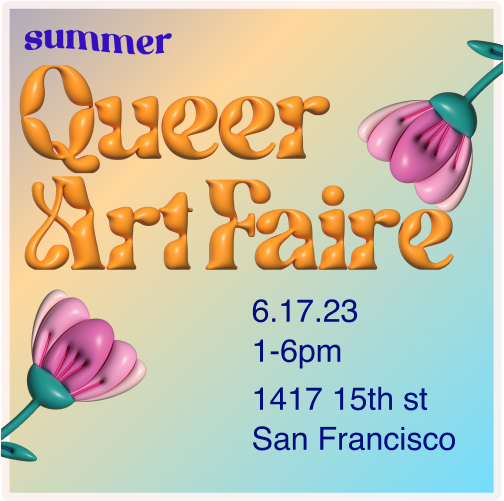
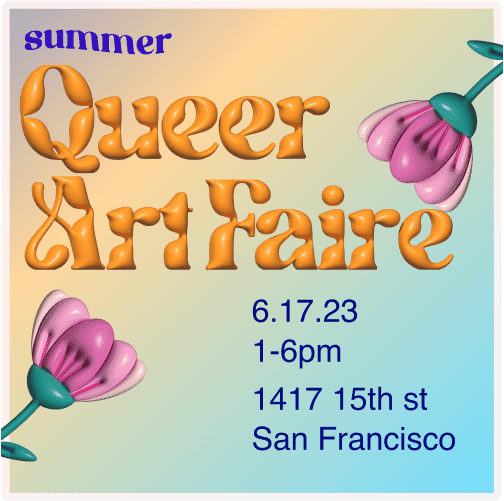
made changes to increase performance score

diff --git a/app/page.js b/app/page.js
@@ -19,37 +19,14 @@ export default function HomePage() {
       <Subheader />
       <Navigation />
       <div className={HomeStyles.content}>
-        <div className = {HomeStyles.nextContainer}>
-          <Strawberry heading='NEXT' showMediumStrawberry = {'none'}/>
-          <img className = {HomeStyles.nextPoster} src='./QAF Poster July 8.png'></img>
-
-          <div className = {HomeStyles.nextButtonContainer}>
-            <Button className = {HomeStyles.nextButton} 
-            text="Get your tickets!"
-            url="https://www.eventbrite.com/e/queer-art-faire-at-lakeside-landing-tickets-634996761407?aff=oddtdtcreator"
-            />
-            <div className = {HomeStyles.nextHeartContainer} >
-              <img className = {HomeStyles.nextHeart} src='./heart.svg'></img>
-            </div>
-            <Button className = {HomeStyles.nextButton} 
-            text="General Vendor Application" 
-            backgroundColor="white" 
-            textColor="#002809" 
-            borderColor="#489056"
-            hoverBackgroundColor="#489056"
-            hoverTextColor="white"
-            url="https://docs.google.com/forms/d/e/1FAIpQLSePS8SsNjo6JF0JvOVwPIYPIv-cc8VCp2ZLEC2u5cIkPKNodA/viewform"
-            />
-          </div>
-        </div>
         
         <div className = {HomeStyles.upcomingContainer}>
           <Strawberry heading='UPCOMING' showLargeStrawberry='none'/>
           <div className = {HomeStyles.smallEventsContainer}>
             <Event className = {HomeStyles.centerFlexChild} name="Lakeside Landing" info="July 8, 2023"/>
-            <img className = {HomeStyles.upcomingOrange} src='./puffyOrange.svg'></img>
+            <img className = {HomeStyles.upcomingOrange} src='./puffyOrange.svg' loading = "lazy"></img>
             <Event className = {HomeStyles.centerFlexChild} name="Fall Faire" info={'Sept 16, 2023'}/>
-            <img className = {HomeStyles.upcomingOrange} src='./puffyOrange.svg'></img>
+            <img className = {HomeStyles.upcomingOrange} src='./puffyOrange.svg' loading = "lazy"></img>
             <Event className = {HomeStyles.centerFlexChild} name="Winter Faire" info={'Dec 2, 2023'}/>
           </div>
         </div>
@@ -72,7 +49,9 @@ export default function HomePage() {
         <div className = {HomeStyles.aboutContainer}>
           <Strawberry heading='ABOUT' showMediumStrawberry = {"none"}/>
           <div className = {HomeStyles.aboutSubContainer}>
-            <img className = {HomeStyles.aboutImage} src='./PeachWithWater.svg'></img>
+            <div className = {HomeStyles.rowContainer}>
+              <img className = {HomeStyles.aboutImage} src='./PeachWithWater.svg' loading = "lazy"></img>
+            </div>
             <p className= {HomeStyles.aboutText}>
             We are a community hosting art fairs in San Francisco for marginalized and queer folks who have not had a space to share their creations before. 
             <br /> <br/>

diff --git a/app/march-11-gallery/page.js b/app/march-11-gallery/page.js
@@ -16,17 +16,17 @@ export default function Gallery() {
             <Logo />
             <Subheader />
             <Navigation />
-            <Strawberry heading = {"PHOTO GALLERY"} showLargeStrawberry = {"none"}/>
+            <Strawberry heading = {"PHOTOS"} showLargeStrawberry = {"none"}/>
             <Spacer height = {2}/>
-            <GalleryPics imagePath1 = {"url('/photos/P3115740-min.JPG')"} imagePath2 = {"url('/photos/P3115759-min.JPG')"}/>
-            <GalleryPics imagePath1 = {"url('/photos/P3115806-min.JPG')"} imagePath2 = {"url('/photos/P3115854-min.JPG')"}/>
-            <GalleryPics imagePath1 = {"url('/photos/P3115914-min.JPG')"} imagePath2 = {"url('/photos/P3115925-min.JPG')"}/>
-            <GalleryPics imagePath2 = {"url('/photos/P3115734-min.JPG')"} imagePath1 = {"url('/photos/P3115753-min.JPG')"}/>
-            <GalleryPics imagePath1 = {"url('/photos/P3115795-min.JPG')"} imagePath2 = {"url('/photos/P3115837-min.JPG')"}/>
-            <GalleryPics imagePath1 = {"url('/photos/P3115887-min.JPG')"} imagePath2 = {"url('/photos/P3115816-min.JPG')"}/>
-            <GalleryPics imagePath1 = {"url('/photos/P3115882-min.JPG')"} imagePath2 = {"url('/photos/P3115892-min.JPG')"}/>
-            <GalleryPics imagePath1 = {"url('/photos/P3115790-min.JPG')"} imagePath2 = {"url('/photos/P3115767-min.JPG')"}/>
-            <GalleryPics imagePath1 = {"url('/photos/P3115745-min.JPG')"} imagePath2 = {"url('/photos/P3115786-min.JPG')"}/>
+            <GalleryPics imagePath1 = {"url('/photos/P3115740-min.webp')"} imagePath2 = {"url('/photos/P3115759-min.webp')"}/>
+            <GalleryPics imagePath1 = {"url('/photos/P3115806-min.webp')"} imagePath2 = {"url('/photos/P3115854-min.webp')"}/>
+            <GalleryPics imagePath1 = {"url('/photos/P3115914-min.webp')"} imagePath2 = {"url('/photos/P3115925-min.webp')"}/>
+            <GalleryPics imagePath2 = {"url('/photos/P3115734-min.webp')"} imagePath1 = {"url('/photos/P3115753-min.webp')"}/>
+            <GalleryPics imagePath1 = {"url('/photos/P3115795-min.webp')"} imagePath2 = {"url('/photos/P3115837-min.webp')"}/>
+            <GalleryPics imagePath1 = {"url('/photos/P3115887-min.webp')"} imagePath2 = {"url('/photos/P3115816-min.webp')"}/>
+            <GalleryPics imagePath1 = {"url('/photos/P3115882-min.webp')"} imagePath2 = {"url('/photos/P3115892-min.webp')"}/>
+            <GalleryPics imagePath1 = {"url('/photos/P3115790-min.webp')"} imagePath2 = {"url('/photos/P3115767-min.webp')"}/>
+            <GalleryPics imagePath1 = {"url('/photos/P3115745-min.webp')"} imagePath2 = {"url('/photos/P3115786-min.webp')"}/>
             <Footer />
         </div>
     );

diff --git a/components/GalleryPics.js b/components/GalleryPics.js
@@ -39,7 +39,7 @@ const GalleryPics = (props) => {
             backgroundSize: 'auto 500px',
             border: 'none',
             backgroundColor: '#E2F5F6',
-            backgroundPosition: 'center center'
+            backgroundPosition: 'center center',
         },
 
         imageDiv2: {
@@ -49,24 +49,24 @@ const GalleryPics = (props) => {
             backgroundSize: 'auto 500px',
             border: 'none',
             backgroundColor: '#E2F5F6',
-            backgroundPosition: 'center center'
+            backgroundPosition: 'center center',
         }
     }
 
     return (
         <div>
-            <div style = {{display: showPic1 ? "block" : "none"}} >
-                <div className = {style.imageDiv} style = {styles.imageDiv1} onClick = {() => setShowPic1(!showPic1)}></div>
+            <div style = {{display: showPic1 ? "block" : "none"}} loading = "lazy">
+                <div className = {style.imageDiv} style = {styles.imageDiv1} onClick = {() => setShowPic1(!showPic1)} loading = "lazy"></div>
             </div>
             
-            <div style = {{display: showPic2 ? "block" : "none"}}>
-                <div className = {style.imageDiv} style = {styles.imageDiv2} onClick = {() => setShowPic2(!showPic2)}></div>
+            <div style = {{display: showPic2 ? "block" : "none"}} loading = "lazy">
+                <div className = {style.imageDiv} style = {styles.imageDiv2} onClick = {() => setShowPic2(!showPic2)} loading = "lazy"></div>
             </div>
 
             <div className = {style.container}>
-                <button className = {style.button} style = {styles.button1} onClick = {() => setShowPic1(!showPic1)}></button>
+                <button className = {style.button} style = {styles.button1} onClick = {() => setShowPic1(!showPic1)} loading = "lazy"></button>
                 <Spacer height = {2.5}/>
-                <button className = {style.button} style = {styles.button2} onClick = {() => setShowPic2(!showPic2)}></button>
+                <button className = {style.button} style = {styles.button2} onClick = {() => setShowPic2(!showPic2)} loading = "lazy"></button>
             </div>
             
         </div>

diff --git a/app/events/ContentComponent.js b/app/events/ContentComponent.js
@@ -34,13 +34,13 @@ const ContentComponent = (props) => {
                             {props.subheader}
                         </p>
                         <div className = {style.textContainer}>
-                            <img className = {style.orange} src = {"/orange.svg"}/>
+                            <img className = {style.orange} src = {"/orange.png"} loading = "lazy"/>
                             <p className = {style.text} style = {contentStyles.text}> 
                                 {props.text1}
                             </p>
                         </div>
                         <div className = {style.textContainer}>
-                            <img className = {style.orange} src = {"/orange.svg"}/>
+                            <img className = {style.orange} src = {"/orange.png"} loading = "lazy"/>
                             <p className = {style.text} style = {contentStyles.text}> 
                                 {props.text2}
                             </p>
@@ -66,13 +66,13 @@ const ContentComponent = (props) => {
                             {props.subheader}
                         </p>
                         <div className = {style.textContainer}>
-                            <img className = {style.orange} src = {"/orange.svg"}/>
+                            <img className = {style.orange} src = {"/orange.png"} loading = "lazy"/>
                             <p className = {style.text} style = {contentStyles.text}> 
                                 {props.text1}
                             </p>
                         </div>
                         <div className = {style.textContainer}>
-                            <img className = {style.orange} src = {"/orange.svg"}/>
+                            <img className = {style.orange} src = {"/orange.png"} loading = "lazy"/>
                             <p className = {style.text} style = {contentStyles.text}> 
                                 {props.text2}
                             </p>

diff --git a/app/events/page.js b/app/events/page.js
@@ -17,23 +17,22 @@ export default function Events() {
         <Logo />
         <Subheader />
         <Navigation />
-        <Strawberry heading = {"NEXT"} showLargeStrawberry = {'none'}/>
+        <Strawberry heading = {"PAST"} showLargeStrawberry = {'none'}/>
         <Spacer height = {5}/>
-        <NextEvent
+        <ContentComponent
           imageLeft = {true}
-          imagePath = {'/july8poster.jpg'}
-          buttonText1 = {"RSVP here"}
-          url1 = {"https://www.eventbrite.com/e/queer-art-faire-at-lakeside-landing-tickets-634996761407?aff=ebdshpsearchautocomplete"}
+          imagePath = {'/july8poster.webp'}
+          buttonText1 = {"Photos"}
+          buttonText2 = {"Vendors"}
           heading = {"July Queer Art Faire"}
           subheader = {"7.8.23 | 1-5pm | 2504 Ocean Ave San Francisco"}
           text1 = {"$5 suggested donation to Queer Art Faire"}
           text2 = {"Many local BIPOC and Queer artists selling theirs creations!"}
         />
-        <Strawberry heading = {"PAST"} showLargeStrawberry = {'none'}/>
         <Spacer height = {5}/>
         <ContentComponent 
             imageLeft = {true} 
-            imagePath = {'/poster.svg'}
+            imagePath = {'/June17FaireSquare.png'}
             buttonText1 = {'Photos'}
             buttonText2 = {'Vendors'}
             url2 = {'/june-17-vendors'}
@@ -45,7 +44,7 @@ export default function Events() {
         <Spacer height = {5}/>
         <ContentComponent 
             imageLeft = {true} 
-            imagePath = {'/QueerArtFaireSF.jpg'}
+            imagePath = {'/QueerArtFaireSF.webp'}
             buttonText1 = {'Photos'}
             url1 = {"/march-11-gallery"}
             buttonText2 = {'Vendors'}

diff --git a/components/Home.module.css b/components/Home.module.css
@@ -10,7 +10,8 @@
 
 .nextPoster {
     padding-top: 8px; /*Space between NEXT and poster image*/
-    width: 100%;
+    width: 365px;
+    height: 506px;
 }
 
 .nextButtonContainer {
@@ -27,7 +28,7 @@
 }
 
 .upcomingContainer {
-    padding-top: 48px; /*Space between UPCOMING and NEXT*/
+    padding-top: 16px; /*Space between UPCOMING and NEXT*/
 }
 
 .upcomingOrange {
@@ -60,12 +61,19 @@
 }
 
 .aboutImage {
-    width: 100%;
+    width: 425px;
+    height: 425px;
 }
 
 .aboutText {
     width: 100%;
     font-family: "Helvetica";
+}
+
+.rowContainer {
+    display: flex;
+    flex-direction: row;
+    justify-content: center;
 }
 
 /*Desktop only*/
@@ -80,6 +88,7 @@
     .nextPoster {
         padding-top: 80px; /*Space between NEXT and poster image*/
         width: 500px;
+        height: 694px;
         display: block;
         margin-left: auto;
         margin-right: auto;
@@ -99,7 +108,7 @@
     }
 
     .upcomingContainer {    
-        padding-top: 176px; /*Space between UPCOMING and NEXT section*/
+        padding-top: 32px; /*Space between UPCOMING and NEXT section*/
     }
 
     .smallEventsContainer {
@@ -141,6 +150,7 @@
 
     .aboutImage {
         width: 420px;
+        height: 420px;
     }
     .aboutText {
         margin-top: auto;

diff --git a/components/PastVendor.js b/components/PastVendor.js
@@ -21,7 +21,7 @@ const PastVendor = (props) => {
     };
     return (
         <div style = {pastVendorStyles.container}> 
-            <img style = {pastVendorStyles.image} src = "/orange.svg"/>
+            <img style = {pastVendorStyles.image} src = "/orange.png" loading = "lazy"/>
             <Spacer width = {1}/>
             <a className = {style.pastVendorsText} href = {props.url1}>
                 {props.text1}
@@ -33,7 +33,7 @@ const PastVendor = (props) => {
                 {props.text2}
             </a>
             <Spacer width = {1}/>
-            <img style = {pastVendorStyles.image} src = "/orange.svg"/>
+            <img style = {pastVendorStyles.image} src = "/orange.png" loading = "lazy"/>
         </div>
     )
 };

diff --git a/app/events/contentComponent.module.css b/app/events/contentComponent.module.css
@@ -62,12 +62,13 @@
 
 .image{
     height: 200px;
-    width: auto;
+    width: 145px;
+    object-fit: contain;
 }
 
 @media (min-width: 768px) {
     .image {
-        height: auto;
+        height: 388px;
         width: 300px;
     }
 }
@@ -89,13 +90,13 @@
 
 .orange {
     height: 32px;
-    width: auto;
+    width: 25px;;
     padding-right: 8px; 
 }
 
 @media (min-width: 768px) {
     .orange {
-        width: auto;
+        width: 35px;
         height: 40px;
         padding-right: 16px;
     }

diff --git a/app/march-11-vendors/page.js b/app/march-11-vendors/page.js
@@ -15,7 +15,7 @@ export default function March11Vendors() {
       <Logo />
       <Subheader />
       <Navigation />
-      <Strawberry heading = {"MARCH VENDORS"} showLargeStrawberry = {'none'}/>
+      <Strawberry heading = {"VENDORS"} showLargeStrawberry = {'none'}/>
       <Spacer height = {2}/>
       <PastVendor
         text1 = {"created by Ev"}

diff --git a/components/Logo.module.css b/components/Logo.module.css
@@ -2,12 +2,14 @@
     display: block;
     margin: 0 auto;
     width: 136px;
+    height: 123px;
     padding-bottom: 16px;
 }
 
 @media screen and (min-width: 768px) {
     .logoImg {
         width: 240px;
+        height: 217px;
         padding-bottom: 24px;
     }
 }

diff --git a/components/Logo.js b/components/Logo.js
@@ -2,7 +2,7 @@ import Styles from './Logo.module.css'
 
 const Logo = (props) => {
     return (
-        <img className={Styles.logoImg} src='./QAFLogoOrangePuffy.png'></img>
+        <img className={Styles.logoImg} src='./QAFLogoOrangePuffy.webp'></img>
     )
 }
 
